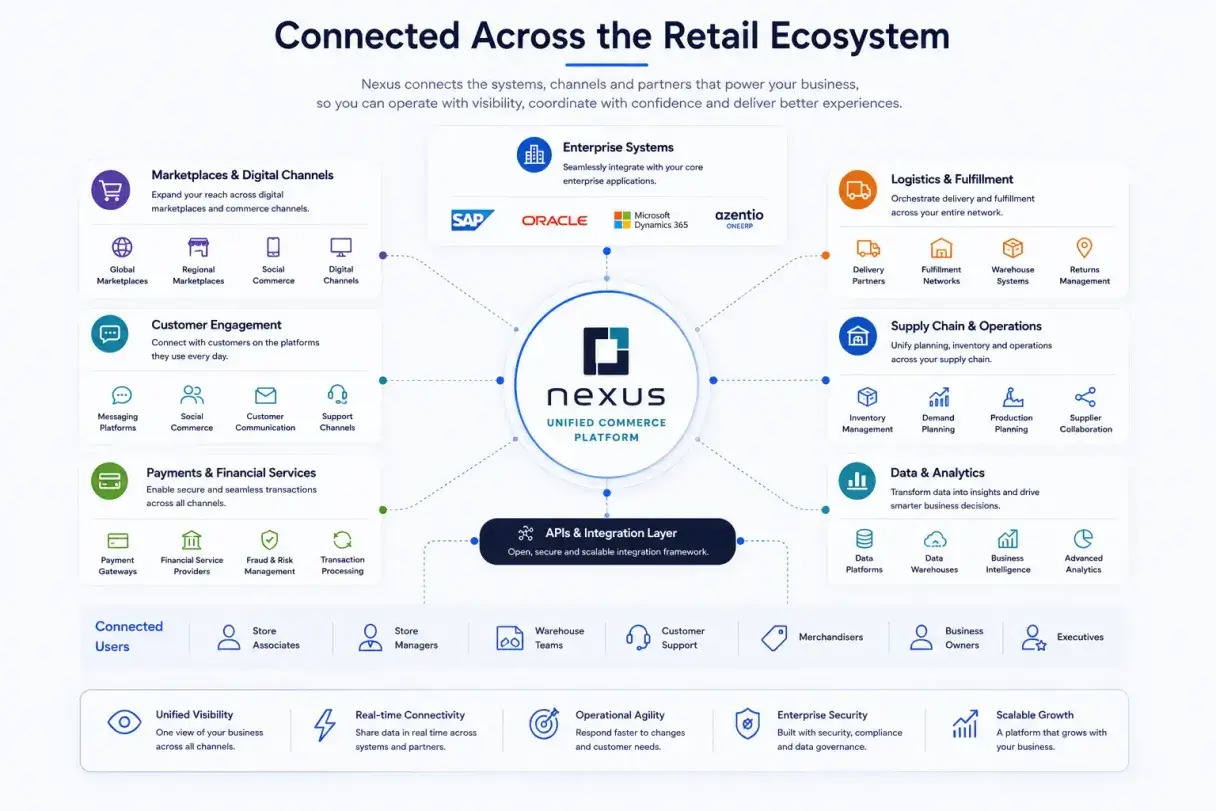
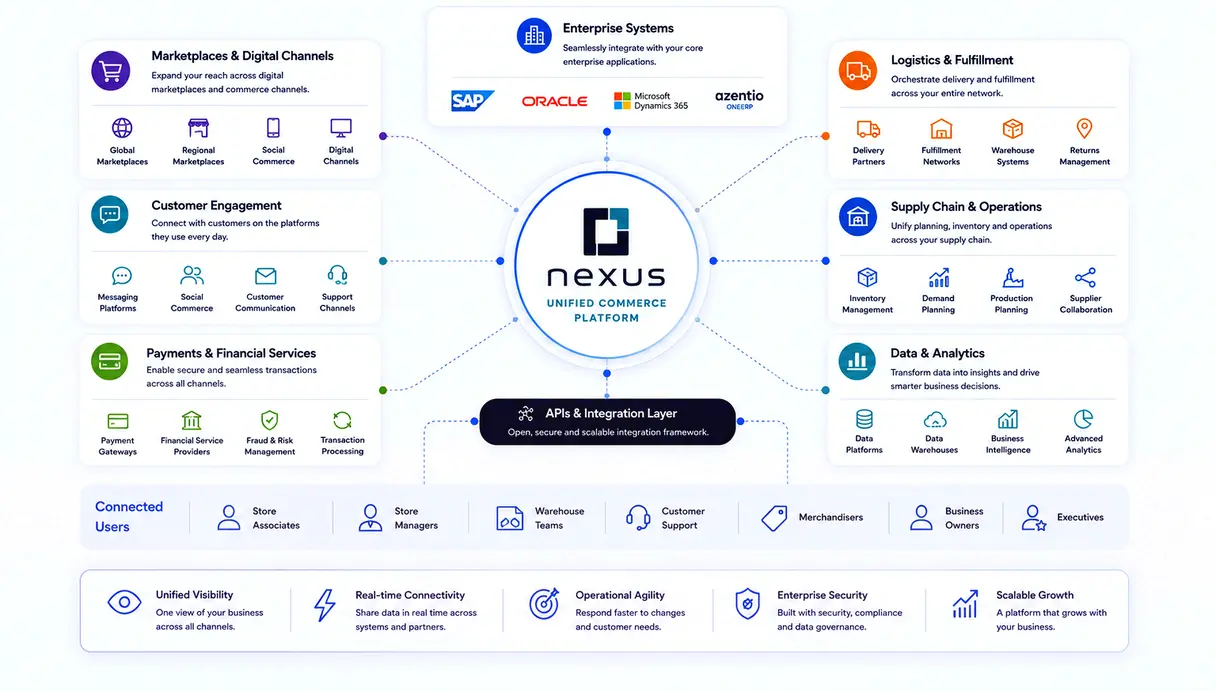
feat: update unified commerce section layout and visuals with new WebP assets

diff --git a/unified-commerce.html b/unified-commerce.html
@@ -916,22 +916,13 @@
           </div>
 
           <div class="fade-in">
-            <div
-              class="gridGradientCard h-full min-h-[360px] flex flex-col justify-center gap-5 w-full p-5 md:p-[30px] rounded-2xl md:rounded-[20px] overflow-hidden bg-light-sky bg-[url('../../assets/image/icon/strategicCard-left-BG.png')] bg-no-repeat bg-cover"
-            >
-              <div
-                class="bg-white sm:p-8 p-5 rounded-xl sm:rounded-[20px] relative z-10"
-              >
-                <img
-                  src="assets/image/retail-plateform/unifiedModules.svg"
-                  alt="Nexus unified retail modules"
-                  class="mx-auto max-w-[320px] w-full lg:mb-8 sm:mb-6 mb-5"
-                  width="320"
-                  height="240"
-                  loading="lazy"
-                />
-              </div>
-            </div>
+            <img
+              src="assets/image/retail-plateform/artisanscloud-why-choose-nexus.webp"
+              alt="Nexus unified retail modules"
+              class="mx-auto w-full lg:mb-8 sm:mb-6 mb-5"
+              width="auto"
+              loading="lazy"
+            />
           </div>
         </div>
       </div>
@@ -965,119 +956,119 @@
           class="grid grid-cols-1 sm:grid-cols-2 lg:grid-cols-4 lg:gap-[30px] gap-5"
         >
           <div
-            class="fade-in lg:py-6 py-5 lg:pe-8 pe-6 lg:ps-[30px] ps-4 lg:rounded-[20px] rounded-2xl bg-[#f6f8fb] flex lg:gap-6 gap-4 w-full h-full items-start"
+            class="fade-in lg:p-6 p-5 lg:rounded-[20px] rounded-2xl bg-[#f6f8fb] flex flex-col lg:gap-4 gap-3 w-full h-full"
           >
-            <div
-              class="max-w-16 sm:max-w-[4.5rem] min-w-16 sm:min-w-[4.5rem] h-16 sm:h-[4.5rem] grid place-items-center rounded-[10px] bg-white flex-shrink-0"
-            >
-              <img
-                src="assets/image/icon/artchitecHeightlight-card-interoperabilityScale.svg"
-                class="h-1/2"
-                alt="API first architecture icon"
-                width="32"
-                height="32"
-                loading="lazy"
-              />
-            </div>
-            <div>
+            <div class="flex items-center lg:gap-4 gap-3">
               <div
-                class="mb-1.5 text-heading font-primary font-semibold text-base leading-[120%]"
+                class="max-w-12 sm:max-w-14 min-w-12 sm:min-w-14 h-12 sm:h-14 grid place-items-center rounded-[10px] bg-white flex-shrink-0"
+              >
+                <img
+                  src="assets/image/icon/artchitecHeightlight-card-interoperabilityScale.svg"
+                  class="h-1/2"
+                  alt="API first architecture icon"
+                  width="32"
+                  height="32"
+                  loading="lazy"
+                />
+              </div>
+              <div
+                class="text-heading font-primary font-semibold lg:text-lg text-base leading-[120%]"
               >
                 API-First Architecture
               </div>
-              <p
-                class="text-description font-primary font-normal text-sm leading-[150%]"
-              >
-                Integrate seamlessly with existing enterprise systems.
-              </p>
             </div>
+            <p
+              class="text-description font-primary font-normal text-sm lg:text-base leading-[150%] text-center sm:text-left"
+            >
+              Integrate seamlessly with existing enterprise systems.
+            </p>
           </div>
 
           <div
-            class="fade-in lg:py-6 py-5 lg:pe-8 pe-6 lg:ps-[30px] ps-4 lg:rounded-[20px] rounded-2xl bg-[#f6f8fb] flex lg:gap-6 gap-4 w-full h-full items-start"
+            class="fade-in lg:p-6 p-5 lg:rounded-[20px] rounded-2xl bg-[#f6f8fb] flex flex-col lg:gap-4 gap-3 w-full h-full"
           >
-            <div
-              class="max-w-16 sm:max-w-[4.5rem] min-w-16 sm:min-w-[4.5rem] h-16 sm:h-[4.5rem] grid place-items-center rounded-[10px] bg-white flex-shrink-0"
-            >
-              <img
-                src="assets/image/icon/Cloud-hybridDeployments-icon.svg"
-                class="h-1/2"
-                alt="Flexible deployment icon"
-                width="32"
-                height="32"
-                loading="lazy"
-              />
-            </div>
-            <div>
+            <div class="flex items-center lg:gap-4 gap-3">
               <div
-                class="mb-1.5 text-heading font-primary font-semibold text-base leading-[120%]"
+                class="max-w-12 sm:max-w-14 min-w-12 sm:min-w-14 h-12 sm:h-14 grid place-items-center rounded-[10px] bg-white flex-shrink-0"
+              >
+                <img
+                  src="assets/image/icon/Cloud-hybridDeployments-icon.svg"
+                  class="h-1/2"
+                  alt="Flexible deployment icon"
+                  width="32"
+                  height="32"
+                  loading="lazy"
+                />
+              </div>
+              <div
+                class="text-heading font-primary font-semibold lg:text-lg text-base leading-[120%]"
               >
                 Flexible Deployment
               </div>
-              <p
-                class="text-description font-primary font-normal text-sm leading-[150%]"
-              >
-                Cloud, hybrid and on-premise deployment options.
-              </p>
             </div>
+            <p
+              class="text-description font-primary font-normal text-sm lg:text-base leading-[150%] text-center sm:text-left"
+            >
+              Cloud, hybrid and on-premise deployment options.
+            </p>
           </div>
 
           <div
-            class="fade-in lg:py-6 py-5 lg:pe-8 pe-6 lg:ps-[30px] ps-4 lg:rounded-[20px] rounded-2xl bg-[#f6f8fb] flex lg:gap-6 gap-4 w-full h-full items-start"
+            class="fade-in lg:p-6 p-5 lg:rounded-[20px] rounded-2xl bg-[#f6f8fb] flex flex-col lg:gap-4 gap-3 w-full h-full"
           >
-            <div
-              class="max-w-16 sm:max-w-[4.5rem] min-w-16 sm:min-w-[4.5rem] h-16 sm:h-[4.5rem] grid place-items-center rounded-[10px] bg-white flex-shrink-0"
-            >
-              <img
-                src="assets/image/icon/artchitecHeightlight-card-unifiedData.svg"
-                class="h-1/2"
-                alt="Native integrations icon"
-                width="32"
-                height="32"
-                loading="lazy"
-              />
-            </div>
-            <div>
+            <div class="flex items-center lg:gap-4 gap-3">
               <div
-                class="mb-1.5 text-heading font-primary font-semibold text-base leading-[120%]"
+                class="max-w-12 sm:max-w-14 min-w-12 sm:min-w-14 h-12 sm:h-14 grid place-items-center rounded-[10px] bg-white flex-shrink-0"
+              >
+                <img
+                  src="assets/image/icon/artchitecHeightlight-card-unifiedData.svg"
+                  class="h-1/2"
+                  alt="Native integrations icon"
+                  width="32"
+                  height="32"
+                  loading="lazy"
+                />
+              </div>
+              <div
+                class="text-heading font-primary font-semibold lg:text-lg text-base leading-[120%]"
               >
                 Native Integrations
               </div>
-              <p
-                class="text-description font-primary font-normal text-sm leading-[150%]"
-              >
-                Support for leading enterprise and retail platforms.
-              </p>
             </div>
+            <p
+              class="text-description font-primary font-normal text-sm lg:text-base leading-[150%] text-center sm:text-left"
+            >
+              Support for leading enterprise and retail platforms.
+            </p>
           </div>
 
           <div
-            class="fade-in lg:py-6 py-5 lg:pe-8 pe-6 lg:ps-[30px] ps-4 lg:rounded-[20px] rounded-2xl bg-[#f6f8fb] flex lg:gap-6 gap-4 w-full h-full items-start"
+            class="fade-in lg:p-6 p-5 lg:rounded-[20px] rounded-2xl bg-[#f6f8fb] flex flex-col lg:gap-4 gap-3 w-full h-full"
           >
-            <div
-              class="max-w-16 sm:max-w-[4.5rem] min-w-16 sm:min-w-[4.5rem] h-16 sm:h-[4.5rem] grid place-items-center rounded-[10px] bg-white flex-shrink-0"
-            >
-              <img
-                src="assets/image/icon/artchitecHeightlight-card-securityCompliance.svg"
-                class="h-1/2"
-                alt="Operational resilience icon"
-                width="32"
-                height="32"
-                loading="lazy"
-              />
-            </div>
-            <div>
+            <div class="flex items-center lg:gap-4 gap-3">
               <div
-                class="mb-1.5 text-heading font-primary font-semibold text-base leading-[120%]"
+                class="max-w-12 sm:max-w-14 min-w-12 sm:min-w-14 h-12 sm:h-14 grid place-items-center rounded-[10px] bg-white flex-shrink-0"
+              >
+                <img
+                  src="assets/image/icon/artchitecHeightlight-card-securityCompliance.svg"
+                  class="h-1/2"
+                  alt="Operational resilience icon"
+                  width="32"
+                  height="32"
+                  loading="lazy"
+                />
+              </div>
+              <div
+                class="text-heading font-primary font-semibold lg:text-lg text-base leading-[120%]"
               >
                 Operational Resilience
               </div>
-              <p
-                class="text-description font-primary font-normal text-sm leading-[150%]"
-              >
-                Designed for performance, availability and business continuity.
-              </p>
             </div>
+            <p
+              class="text-description font-primary font-normal text-sm lg:text-base leading-[150%] text-center sm:text-left"
+            >
+              Designed for performance, availability and business continuity.
+            </p>
           </div>
         </div>
       </div>
@@ -1258,6 +1249,22 @@
 
     <!----- Connected Across The Retail Ecosystem ----->
     <section class="lg:py-[90px] sm:py-16 py-10">
+      <div
+        class="lg:mb-[50px] sm:mb-9 mb-5 max-w-[860px] w-full mx-auto text-center"
+      >
+        <h2
+          class="fade-in mb-4 lg:text-5xl md:text-4xl text-3xl text-heading font-primary font-semibold leading-[120%]"
+        >
+          Connected Across the Retail Ecosystem
+        </h2>
+        <p
+          class="fade-in font-primary font-normal text-base leading-[150%] text-description"
+        >
+          Nexus connects the systems, channels, and partners that powers your
+          business, so you can operate with visibility, coordinate with
+          confidence and deliver better experiences.
+        </p>
+      </div>
       <div class="max-w-[1240px] w-full px-5 xl:px-3 mx-auto">
         <div class="fade-in flex justify-center w-full">
           <img
